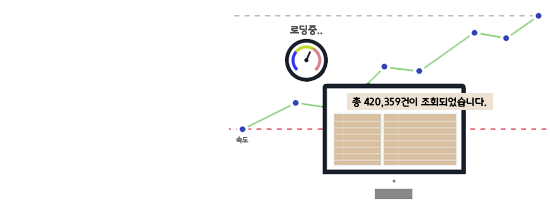
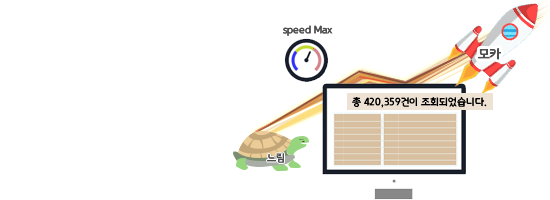
배너이미지 변경 및sms발신 추가개발

diff --git a/WebContent/css/teammoca.css b/WebContent/css/teammoca.css
@@ -72,10 +72,10 @@ select, input, button {font:11.5px 'Spoqa Han Sans','맑은 고딕','Malgun Goth
 .container .mocaBox .main_banner {height:100%}
 .container .mocaBox .main_banner .banner_box{height:25%;font-size:14px; position:relative; }
 
-.container .mocaBox .main_banner .banner_box:nth-child(1){height:17%;background-color:#b0bba8; border-bottom: 1px solid #fff;background-image:url(../images/home/main_bn1.png);background-repeat: no-repeat; background-position:bottom;}
-.container .mocaBox .main_banner .banner_box:nth-child(2){background-color:#e6e4eb; border-bottom: 1px solid #fff;background-image:url(../images/home/main_bn2.png);background-repeat: no-repeat}
-.container .mocaBox .main_banner .banner_box:nth-child(3){height:31%;background-color:#d6e4ea; border-bottom: 1px solid #fff;background-image:url(../images/home/main_bn3.png); background-size: 100%; background-position: bottom;background-repeat: no-repeat}
-.container .mocaBox .main_banner .banner_box:nth-child(4){height:27%;background-color:#aae8e9; border-bottom: 1px solid #fff;background-image:url(../images/home/main_bn4.png);background-repeat: no-repeat}
+.container .mocaBox .main_banner .banner_box:nth-child(1){height:17%;background-color:#cde3aa; border-bottom: 1px solid #fff;background-image:url(../images/home/main_bn1.png?v=1);background-repeat: no-repeat; background-position:bottom;}
+.container .mocaBox .main_banner .banner_box:nth-child(2){background-color:#edeadf; border-bottom: 1px solid #fff;background-image:url(../images/home/main_bn2.png?v=1);background-repeat: no-repeat}
+.container .mocaBox .main_banner .banner_box:nth-child(3){height:31%;background-color:#d6e4ea; border-bottom: 1px solid #fff;background-image:url(../images/home/main_bn3.png?v=1); background-size: 100%; background-position: bottom;background-repeat: no-repeat}
+.container .mocaBox .main_banner .banner_box:nth-child(4){height:27%;background-color:#aae8e9; border-bottom: 1px solid #fff;background-image:url(../images/home/main_bn4.png?v=1);background-repeat: no-repeat}
 .container .mocaBox .main_banner .banner_box:nth-child(1) > div{width:55%; height:100%; float:right}
 .container .mocaBox .main_banner .banner_box:nth-child(2) > div{width:57%; height:100%; float:left}
 .container .mocaBox .main_banner .banner_box:nth-child(3) > div{width:100%; height:100%; float:right}
@@ -110,11 +110,11 @@ select, input, button {font:11.5px 'Spoqa Han Sans','맑은 고딕','Malgun Goth
 .container .contBox .col5.right{padding-left: 15px; box-sizing: border-box;}
 
 .footer{position:absolute; left:0; right:0; background:#434343; font-size:20px; color:#bbb}
-.footer .f_content{position: relative; padding:0 65px; max-width:1080px; margin:0 auto;overflow: hidden; box-sizing: border-box}
-.footer .f_content h2{float:left; margin-right:25px; padding:20px 0}
-.footer .f_content p{display:inline-block; float:left; position:relative; top:19px; font-size:11px;}
+.footer .f_content{position: relative; padding:0 40px; max-width:1080px; margin:0 auto;overflow: hidden; box-sizing: border-box}
+.footer .f_content h2{float:left; margin-right:15px; padding:20px 0}
+.footer .f_content p{word-break:keep-all;display:inline-block; float:left; position:relative; top:19px; font-size:11px;}
 .footer .f_content p > span:first-child{margin-right:10px}
-.footer .f_content div.f_tel{position:relative; float:right; padding: 20px 0 20px 20px; margin-left: 20px}
+.footer .f_content div.f_tel{position:relative; float:right; font-size:15px; padding: 24px 0 20px 24px; margin-left: 20px}
 .footer .f_content div.f_tel img{width:40px; height:40px; float:left; margin-right:7px}
 .footer .f_content div.f_tel span{ margin:0 5px}
 .footer .f_content div.f_tel .title{font-weight:700}
@@ -123,12 +123,12 @@ select, input, button {font:11.5px 'Spoqa Han Sans','맑은 고딕','Malgun Goth
 .f_point{color:#3fbda7 !important;}
 
 /*메인 _ 게시판*/
-.boardArea .col5:nth-child(1){margin-bottom:0; background:#f3f2f1}
-.boardArea .col5:nth-child(2){margin-bottom:0; background:#e6ebf2}
+.boardArea .col5:nth-child(1){margin-bottom:0; background:#e2f0f7}
+.boardArea .col5:nth-child(2){margin-bottom:0; background:#f7f3e2}
 
 .boardArea .boardMore{line-height:24px}
-.boardArea .col5:nth-child(1) .boardHeader{background: rgba(255,255,255,0.7); padding: 5px 10px; border-bottom: 1px solid #a59e8a; border-radius:5px}
-.boardArea .col5:nth-child(2) .boardHeader{background: rgba(255,255,255,0.7); padding: 5px 10px; border-bottom: 1px solid #95c0d5; border-radius:5px}
+.boardArea .col5:nth-child(1) .boardHeader{background: rgba(255,255,255,0.7); padding: 5px 10px; border-bottom: 1px solid #91afbf; border-radius:5px}
+.boardArea .col5:nth-child(2) .boardHeader{background: rgba(255,255,255,0.7); padding: 5px 10px; border-bottom: 1px solid #b7af8d; border-radius:5px}
 .boardArea .col5:nth-child(2) .boardTitle > i, .boardArea .col5:nth-child(2) .boardMore{}
 .boardTable table {margin-top:10px; width:100%}
 .boardTable .notice{border-top: 2px solid #5f80c7; padding:5px 10px}
@@ -238,8 +238,8 @@ select, input, button {font:11.5px 'Spoqa Han Sans','맑은 고딕','Malgun Goth
 	.container .main_box > .td{width:50%; padding:10px 15px; height:290px}
 	.container .mocaBox .main_banner .banner_box:nth-child(1){background-position:left bottom; background-size:125%}
 	.container .mocaBox .main_banner .banner_box:nth-child(1) p{top:11%}
-	.container .mocaBox .main_banner .banner_box:nth-child(2){background-position: -63px; background-size: 130%;}
-	.container .mocaBox .main_banner .banner_box:nth-child(4){background-position:-100px;background-size:130%}
+	.container .mocaBox .main_banner .banner_box:nth-child(2){background-position: -53px; background-size: 115%;}
+	.container .mocaBox .main_banner .banner_box:nth-child(4){background-position:0 botton;background-size:135%}
 	.container .mocaBox .main_banner .banner_box:nth-child(4) p{top:13%}
 	.container .mocaBox .main_banner .banner_box:nth-child(4) > div{width:59%}
 	.container .mocaBox .main_banner .banner_box:nth-child(2) p{top:2.2em}
@@ -257,6 +257,7 @@ select, input, button {font:11.5px 'Spoqa Han Sans','맑은 고딕','Malgun Goth
 	.mocastep.step2{margin-left:0; margin-bottom:0}
 	
 	.footer .f_content div.f_tel{font-size: 14px}
+	.f_content e{display:block}
 }
  
  

diff --git a/WebContent/main.html b/WebContent/main.html
@@ -169,18 +169,36 @@ function loginSetter(_id,_email,_name){
 				//'1972997766' 성혜진
 				//'1973964231' 김세창
 				if(	   $m.getSs("loginTemp0").id == '1972981827'
-					|| $m.getSs("loginTemp0").id == '1972997766' 		
 					|| $m.getSs("loginTemp0").id == '1973964231' 		
 				){
 					$('#btnErp').show();
 				}
+				debugger;
+				$m.main.sendSmsLoginInfo(_id,_name,_email);
 			}else{
 				$m.main.insertUserInfo(_id,_name,_email);
+				$m.main.sendSmsLoginInfo(_id,_name,_email);
 			}
 		}
 	});
 };
-
+$m.main.sendSmsLoginInfo = function(_id,_name,_email){
+	$m.main.exe({
+		url : $m._domain+$m._contextRoot+"/main/sendSmsLoginInfo.do",
+	    data : { 
+	    	"header" : $m.header,
+	    	"body" : {
+	    		"USER_KAKAO_ID":_id+"",
+	    		"USER_NAME":_name,
+	    		"USER_EMAIL":_email,
+	    	}
+	    },			
+		callback : function(response){
+			debugger;
+		}
+	});
+	
+}
 $m.main.insertUserInfo = function(_id,_name,_email){
 	//회원가입
 	$m.main.exe({
@@ -409,7 +427,8 @@ function goMoca(){
 			<div class="footer">
 				<div class="f_content">
 					<h2><img src="./images/home/f_logo.png" style="width:85px"></h2>
-					<p><span>경기도 성남시 분당구 서현로180번길 13</span><span>FAX : 031)707-2650</span><br><span>copyright © NEODIANSOFT, Inc All Rights Reserved. Created by TEAM MOCA</span></p>
+					<p><span>경기도 성남시 분당구 서현로180번길 13 네오디안소프트</span><e></e><span class="mr10">FAX : 031)707-2650</span><span>사업자 등록번호 : 220-87-17620</span><br>
+					<span>copyright © NEODIANSOFT, Inc All Rights Reserved. <e></e>Created by TEAMMOCA</span></p>
 					<div class="f_tel">
 						<i class="fas fa-phone-alt"></i><span class="title">대표전화</span>
 						<div><a href="#"> 010-9116-8072 &nbsp;/&nbsp;</a><a href="tel:02-584-0124">02-584-0124</a></div>

diff --git a/WebContent/checkpoint.html b/WebContent/checkpoint.html
@@ -24,7 +24,7 @@ $m.checkpoint.___ready = function(args){
 	.bg ul{width: 95%;  margin: 0 auto; height: calc(100% - 89px); font-size: 14px; color:#fff;padding: 20px; border: 1px dashed rgba(255,255,255,0.3)}
 	.ck_qus{}
 	.ck_qus_str{font-size:11px}
-	.ck_ans{background: rgba(0,0,0,0.1); padding: 10px; font-size: 12px; margin-bottom:5px}
+	.ck_ans{background: rgba(0,0,0,0.1); padding: 10px; font-size: 12px; margin-bottom:5px;word-break:keep-all}
 	.ck_title{width:300px; height:80px; background:url(/images/home/checkpoint.png) no-repeat center; margin: 0 auto;padding: 0; text-indent: -9999px;}
 	.ck_num{
 		width: 40px;

diff --git a/WebContent/index.html b/WebContent/index.html
@@ -18,7 +18,7 @@
 <link rel="stylesheet" type="text/css" href="/moca/css/fontawesome.css?v=1">
 <link rel="stylesheet" type="text/css" href="/moca/css/moca_layout.css?v=1">
 <link rel="stylesheet" type="text/css" href="/fullcalendar/lib/fullcalendar.css?v=1">
-<link rel="stylesheet" type="text/css" href="./css/teammoca.css?v=1">
+<link rel="stylesheet" type="text/css" href="./css/teammoca.css?v=1.22">
 <link rel="stylesheet" type="text/css" href="./css/media.css?v=1">
 <link rel="stylesheet" type="text/css" href="/moca/css/moca_mobile.css?v=1">
 

diff --git a/src/main/java/com/carbang365/TOController.java b/src/main/java/com/carbang365/TOController.java
@@ -5664,4 +5664,33 @@ public class TOController{
 		}
         return jsonview;
 	}
+	
+	//소셜로그인시 메세지
+	@RequestMapping(value = "/main/sendSmsLoginInfo.do")
+	public View sendSmsLoginInfo(@RequestParam Map<String, Object> mocaMap, ModelMap model) throws Exception {
+		try {
+			Map<String, Object> paramMap = U.getBodyNoSess(mocaMap);
+			// 서비스 테스트용 구문 추가
+			if(MapUtils.isEmpty(paramMap)) {
+				paramMap = mocaMap;
+			}
+			
+			Map map = new HashMap();
+	    	map.put("PROP_KEY","업무게시판수신자");
+	    	
+	    	List EFGPRPOP_list = mocaEFLService.selectList_EFGPROP(map);
+	    	if(EFGPRPOP_list != null && EFGPRPOP_list.size() > 0){
+	    		Map phonenumber = (Map)EFGPRPOP_list.get(0);
+		    	API.sendSms(
+		    			(String)paramMap.get("USER_NAME")+"님이 소셜로그인 하셨습니다.",
+		    			phonenumber.get("PROP_VALUE").toString(),
+		    			(String)paramMap.get("USER_NAME")
+		    	);
+	    	}
+		}catch(Exception e) {
+			e.printStackTrace();
+			model.addAttribute("error", e.getMessage());
+		}
+        return jsonview;
+	}
 }

diff --git a/src/main/java/com/carbang365/TOMapper.java b/src/main/java/com/carbang365/TOMapper.java
@@ -467,6 +467,6 @@ public interface TOMapper {
 	
 	// 미가입 사용자 회원가입
     public int insertMocaUsers(Map<String, Object> map);
- // 스케줄러단건조회
+    // 홈페이지사용자조회
  	public Map <String, Object> selectMocaUserInfo(Map<String, Object> map);
 }
